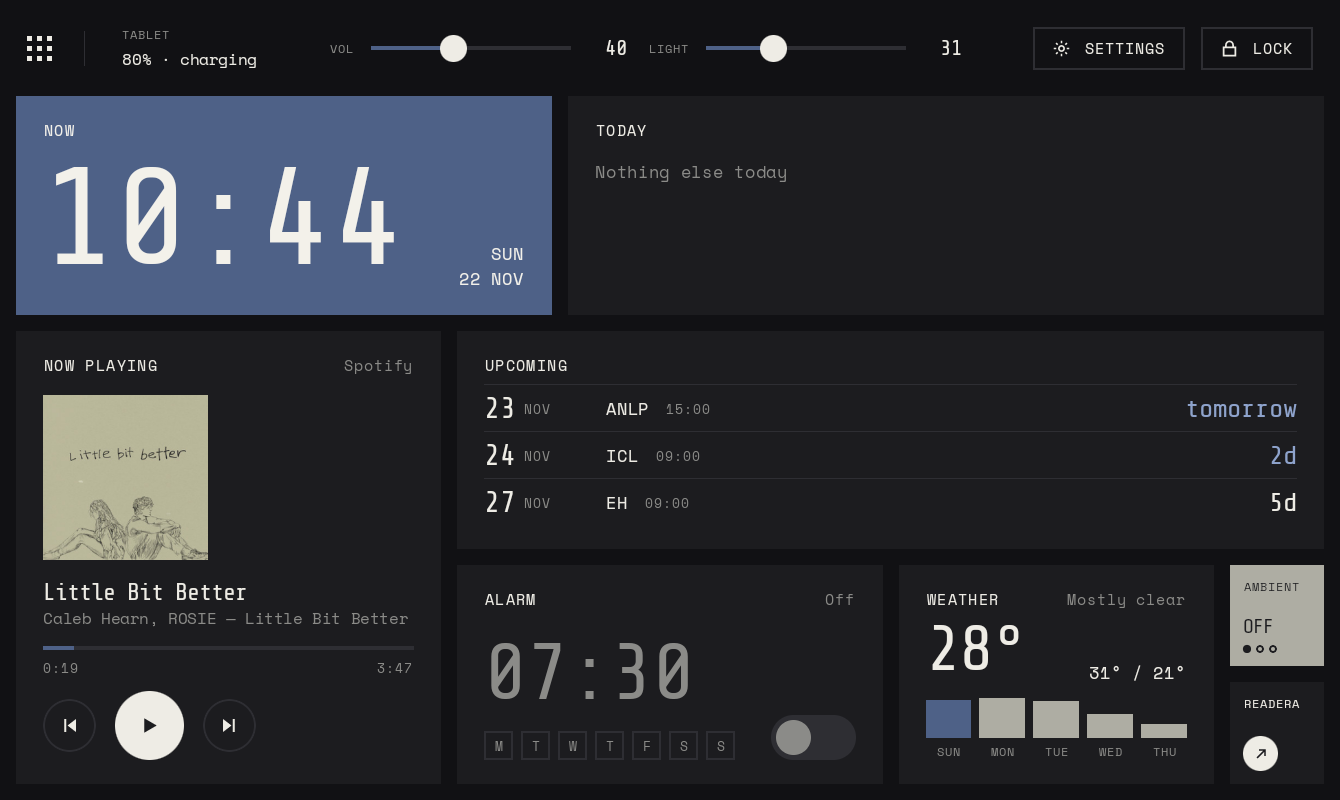
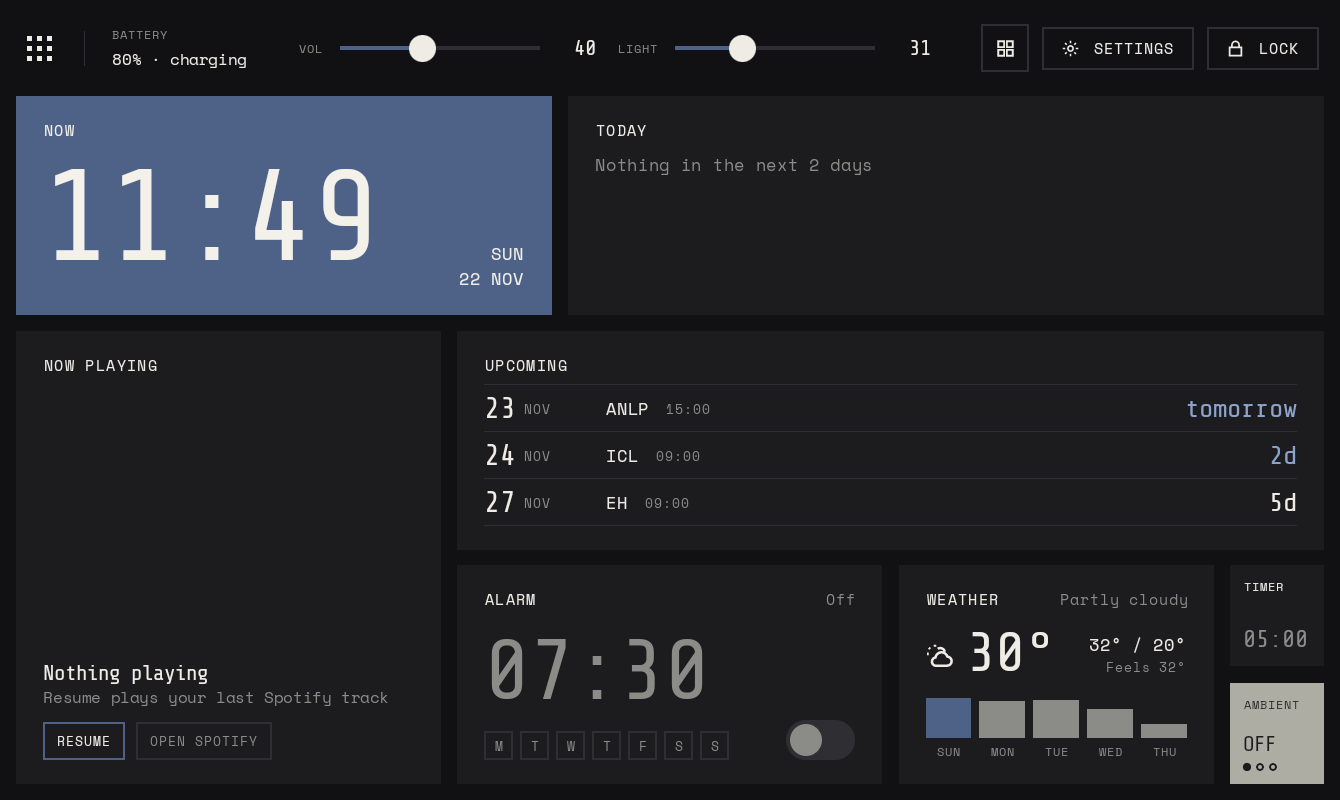
Release setup, docs and fixes from device testing
- Release signing from keystore.properties; R8 keep rules for the iCal
  parser; version 1.0.0.
- Dialogs stay above the keyboard and pop in; rounded form controls.
- Small tiles get compact padding; labels keep priority over meta text;
  fitted numbers sit on the baseline; layouts adapted to smaller grids
  round sizes up and say which tiles didn't fit.
- README, CHANGELOG, credits, Google Calendar setup guide and a CI build.

diff --git a/app/src/main/java/com/desk/dashboard/ui/Inputs.kt b/app/src/main/java/com/desk/dashboard/ui/Inputs.kt
@@ -17,6 +17,7 @@ import androidx.compose.foundation.layout.fillMaxWidth
 import androidx.compose.foundation.layout.height
 import androidx.compose.foundation.layout.padding
 import androidx.compose.foundation.layout.width
+import androidx.compose.foundation.layout.imePadding
 import androidx.compose.foundation.layout.widthIn
 import androidx.compose.foundation.text.BasicTextField
 import androidx.compose.foundation.text.KeyboardActions
@@ -148,7 +149,7 @@ fun Overlay(onDismiss: () -> Unit, width: Dp, content: @Composable ColumnScope.(
     Box(
         Modifier.fillMaxSize().background(Dash.scrim).clickable(
             interactionSource = remember { MutableInteractionSource() }, indication = null, onClick = onDismiss,
-        ).padding(16.dp),
+        ).imePadding().padding(16.dp), // stays above the keyboard
         contentAlignment = Alignment.Center,
     ) {
         androidx.compose.animation.AnimatedVisibility(

diff --git a/README.md b/README.md
@@ -1,56 +1,58 @@
 # Deskdash
 
-An always-on desk dashboard for an Android tablet. Clock, calendar, countdowns, weather, music, an alarm and ambient sound on one landscape screen. Built for a Galaxy Tab A7 Lite on a charger, beside a desk or bed.
+A customizable, always-on dashboard for an Android tablet or phone on your desk. Clock, calendar, weather, music, alarm, timers and more, arranged as tiles you can move, resize and restyle. Runs as an app or as your home screen.
 
 ![Dashboard](docs/dashboard.png)
 
 ## Features
 
-- **Clock** that changes exactly on the minute.
-- **Today:** the next few events from the calendars on the device (Google, Samsung and others), each with its own on/off.
-- **Upcoming:** your own countdown list (exams, deadlines, trips). The three closest fill the tile; the rest scroll.
-- **Weather** from [Open-Meteo](https://open-meteo.com) (no API key) for any city or neighbourhood: the current temperature, today's high and low, and five days ahead. The last forecast stays on screen when you're offline.
-- **Now playing:** album art, progress and controls for Spotify or any other player, even while it's in the background. When nothing is playing, one tap resumes your last Spotify track.
-- **Alarm:** rings over the lock screen and from standby. It has repeat days, a one-time option, snooze, and survives reboots.
-- **Ambient sound:** a real rain recording, or soft noise, both looping without a gap.
-- **Night mode:** a dim clock showing your next alarm during the hours you choose. Tap it to see the dashboard for 30 seconds.
-- **Home-app mode:** starts on boot and opens on Home. The dot icon lists your apps, themed to your palette.
-- Volume and brightness sliders, a Lock button, a ReadEra shortcut, and keeps the screen on while charging.
+- **Your layout:** long-press any tile to rearrange it. Drag to move, drag the corner to resize, tap for its settings. The grid fits any screen, in portrait or landscape, and you can save layouts as presets.
+- **Tiles:** clock, agenda, countdowns, weather, now playing, alarm, timer (countdown, stopwatch and focus), checklist, sticky note, world clocks, photo frame, quote of the day, ambient sound, system status, volume and brightness controls, and app shortcuts.
+- **Calendars:** events from calendars synced to the device, iCal links, imported .ics files, or Google sign-in, all in one agenda.
+- **Weather** for any city or neighbourhood from [Open-Meteo](https://open-meteo.com), with no account or API key. Tap the tile for a 7-day forecast.
+- **Alarm and timers** ring over the lock screen, survive reboots, and the alarm has snooze.
+- **Night mode** dims the screen to a large clock with your next alarm and event, between hours you choose.
+- **Your look:** five themes (one taken from your wallpaper), each in dark or light; three font sets or your own font files; plus corner style, spacing and text size.
+- **Built for a stand:** keeps the screen on while charging, can be the home app, has an app list behind the dot icon, and works offline.
 
-| Night mode | Settings | Apps |
+| Edit mode | Settings | Night mode |
 |---|---|---|
-| ![Night mode](docs/night.png) | ![Settings](docs/settings.png) | ![App list](docs/apps.png) |
+| ![Edit mode](docs/edit.png) | ![Settings](docs/settings.png) | ![Night mode](docs/night.png) |
 
-## Build and install
+## Install
 
-You need JDK 17 or newer, the Android SDK (platform 35), and `adb`. Android Studio is optional.
+Build it yourself (below), or download the APK from [Releases](https://github.com/jupist/Deskdash/releases) or the latest [Build](https://github.com/jupist/Deskdash/actions) run. Needs Android 11 or newer.
+
+## Build
+
+You need JDK 17 or newer, the Android SDK (platform 35) and `adb`. Android Studio is optional.
 
 ```bash
 echo "sdk.dir=$HOME/Android/Sdk" > local.properties   # or set ANDROID_HOME
-./gradlew assembleDebug
-adb install -r app/build/outputs/apk/debug/app-debug.apk
+./gradlew assembleRelease
+adb install -r app/build/outputs/apk/release/app-release.apk
 ```
 
-Runs on Android 11 or newer, on a landscape tablet. The layout is tuned for 1340 × 800.
+To sign release builds with your own key, add a `keystore.properties` file in the project root; it's git-ignored:
+
+```properties
+storeFile=deskdash.jks
+storePassword=…
+keyAlias=deskdash
+keyPassword=…
+```
+
+Without it, release builds are signed with the debug key. Run the unit tests with `./gradlew test`.
 
 ## First run
 
-Open **Settings** on the dashboard. Its **Permissions** section lists each permission the app uses, with a Grant button for any it doesn't have yet:
+A short setup walks you through theme, weather location, calendars and permissions; you can skip any step. Everything is in **Settings** afterwards, where **Permissions** shows what's granted and what each permission is for. On Samsung devices, also add Deskdash to *Battery › Background usage limits › Never sleeping apps*.
 
-| Permission | Used for |
-|---|---|
-| Calendar | Today tile |
-| Notification access | Now playing |
-| Modify system settings | Brightness slider |
-| Notifications, full-screen alerts | The alarm, including over the lock screen |
-| Device admin (lock only) | Lock button. Turn it off before uninstalling. |
-| Unrestricted battery | Stops Android from putting the app to sleep |
-
-On Samsung, also add Desk to **Battery › Background usage limits › Never sleeping apps**. Then set it as the home app under **Display › Use as home app**.
+To use Google sign-in for calendars, the build needs an OAuth client; see [docs/GOOGLE_CALENDAR.md](docs/GOOGLE_CALENDAR.md). iCal links and device calendars need no setup.
 
 ## Project
 
-- Kotlin and Jetpack Compose in a single activity, with no Material components.
-- Room stores the dates; DataStore stores settings.
-- [`SPEC.md`](SPEC.md) is the full design spec, and [`mockup.html`](mockup.html) is the original visual mockup.
-- Sound and font credits are in [`CREDITS.md`](CREDITS.md).
+- Kotlin and Jetpack Compose in a single activity, using Compose foundation only (no Material).
+- `board/` holds the grid, the layout logic and the editor. `modules/` has one file per group of tiles. `calendar/` merges the event sources.
+- Layouts and presets are saved as JSON, settings in DataStore, countdowns in Room.
+- [`CHANGELOG.md`](CHANGELOG.md) lists what changed. [`SPEC.md`](SPEC.md) and [`mockup.html`](mockup.html) are the original 0.1 design, and [`CREDITS.md`](CREDITS.md) lists data, sound and font sources.

diff --git a/CHANGELOG.md b/CHANGELOG.md
@@ -1,0 +1,32 @@
+# Changelog
+
+## 1.0.0
+
+The dashboard becomes customizable and works on any Android screen.
+
+**Layout**
+- Tiles are modules on a grid sized to the screen (about 80 dp per cell), in portrait or landscape.
+- Long-press a tile to rearrange: drag to move (drop on a same-size tile to swap), drag the corner to resize, × to remove, tap for the tile's settings. Undo while editing.
+- Add tiles from a picker. Each tile has a style (plain, accent, alt), an optional label, and its own settings.
+- Presets: save layouts and switch between them. Each screen size keeps its own arrangement; a new size starts from the closest one.
+
+**New tiles**
+- Timer (countdown, stopwatch, focus/pomodoro), rings like the alarm even with the screen off.
+- Checklist, sticky note, world clocks, system status, photo frame, quote of the day, volume/brightness controls, app shortcut.
+
+**Calendars**
+- Agenda shows up to 14 days from device calendars, iCal links, imported .ics files and Google sign-in (see `docs/GOOGLE_CALENDAR.md`), with calendar colours.
+
+**Look**
+- Themes: Slate, Forest, Ember, Graphite and your wallpaper's colours, each in dark or light (or following the system), with an optional pure-black background.
+- Corner styles, spacing, text size, and three font sets plus your own font files.
+
+**Everything else**
+- Settings rebuilt as a two-pane screen (drill-in pages on phones), with first-run setup.
+- Weather: 7-day detail view, feels-like, humidity, wind, rain chance; search by neighbourhood.
+- Night screen can show the next calendar event and seconds.
+- Release builds are shrunk (about 4.6 MB) and can be signed with your own key via `keystore.properties`.
+
+## 0.1
+
+First version for one tablet: fixed 12 × 3 layout with clock, calendar, countdowns, weather, now playing, alarm, ambient sound and a ReadEra shortcut.

diff --git a/docs/GOOGLE_CALENDAR.md b/docs/GOOGLE_CALENDAR.md
@@ -1,0 +1,24 @@
+# Google Calendar sign-in
+
+Deskdash can read Google Calendar three ways:
+
+1. **On this device** (no setup): if your Google account is on the device, its calendars sync into Android's calendar and appear under *Settings › Calendars › On this device*.
+2. **iCal link** (no setup): in Google Calendar on the web, open *Settings › your calendar › Integrate calendar › Secret address in iCal format*, and paste it into *Add iCal link*.
+3. **Google sign-in**: reads Google Calendar directly with a read-only token. This needs an OAuth client for your build, set up once by whoever builds the APK.
+
+## Setting up sign-in
+
+1. In the [Google Cloud console](https://console.cloud.google.com/), create a project (or pick one).
+2. *APIs & Services › Library*: enable **Google Calendar API**.
+3. *APIs & Services › OAuth consent screen*: choose **External**, fill in the app name and your email, add the scope `.../auth/calendar.readonly`, and add yourself under **Test users**. A testing-mode app works for up to 100 test users without Google's verification.
+4. *APIs & Services › Credentials › Create credentials › OAuth client ID*: type **Android**, package name `com.desk.dashboard`, and the **SHA-1** of the key that signs your APK:
+
+   ```bash
+   ./gradlew signingReport
+   ```
+
+   Use the `release` variant's SHA-1 for release builds (the debug SHA-1 for debug builds; you can add both as separate clients).
+
+There's nothing to paste into the app: Google matches the client by package name and signing certificate. Install the build, then *Settings › Calendars › Connect Google account*.
+
+If sign-in says *"This build isn't registered with Google yet (developer error)"*, the package name or SHA-1 doesn't match the client in step 4.

diff --git a/CREDITS.md b/CREDITS.md
@@ -1,9 +1,13 @@
 # Credits
 
+- **Weather:** [Open-Meteo](https://open-meteo.com), data licensed CC BY 4.0.
+- **Place search:** [Photon](https://photon.komoot.io) by Komoot, data © [OpenStreetMap](https://www.openstreetmap.org/copyright) contributors (ODbL).
 - **Rain** (`app/src/main/res/raw/rain.ogg`): trimmed and looped from
   [“October rain in Nepal”](https://commons.wikimedia.org/wiki/File:October_rain_in_Nepal.ogg)
   by Nirmal Dulal, Wikimedia Commons, licensed [CC BY-SA 4.0](https://creativecommons.org/licenses/by-sa/4.0/).
   Changes: cut 0:02–0:25.6 and 0:27.4–0:53.5 (skipping one louder moment), crossfaded together,
   end crossfaded into the start for a seamless loop, normalised, re-encoded to Ogg Vorbis.
   The derived file is under the same licence.
-- **Fonts:** Share Tech Mono and Space Mono (SIL Open Font License).
+- **Fonts** (SIL Open Font License): Share Tech Mono, Space Mono, Space Grotesk, DM Serif Display, DM Sans.
+- **iCalendar parsing:** [biweekly](https://github.com/mangstadt/biweekly) (BSD 2-Clause).
+- **Quotes:** public-domain authors and traditional proverbs.

diff --git a/SPEC.md b/SPEC.md
@@ -1,3 +1,5 @@
+> Original 0.1 design spec, kept for reference. The current app is described in README.md and CHANGELOG.md.
+
 # Tablet Dashboard App — Build Spec
 
 Nov 21, 2026 · Aman Jayesh
